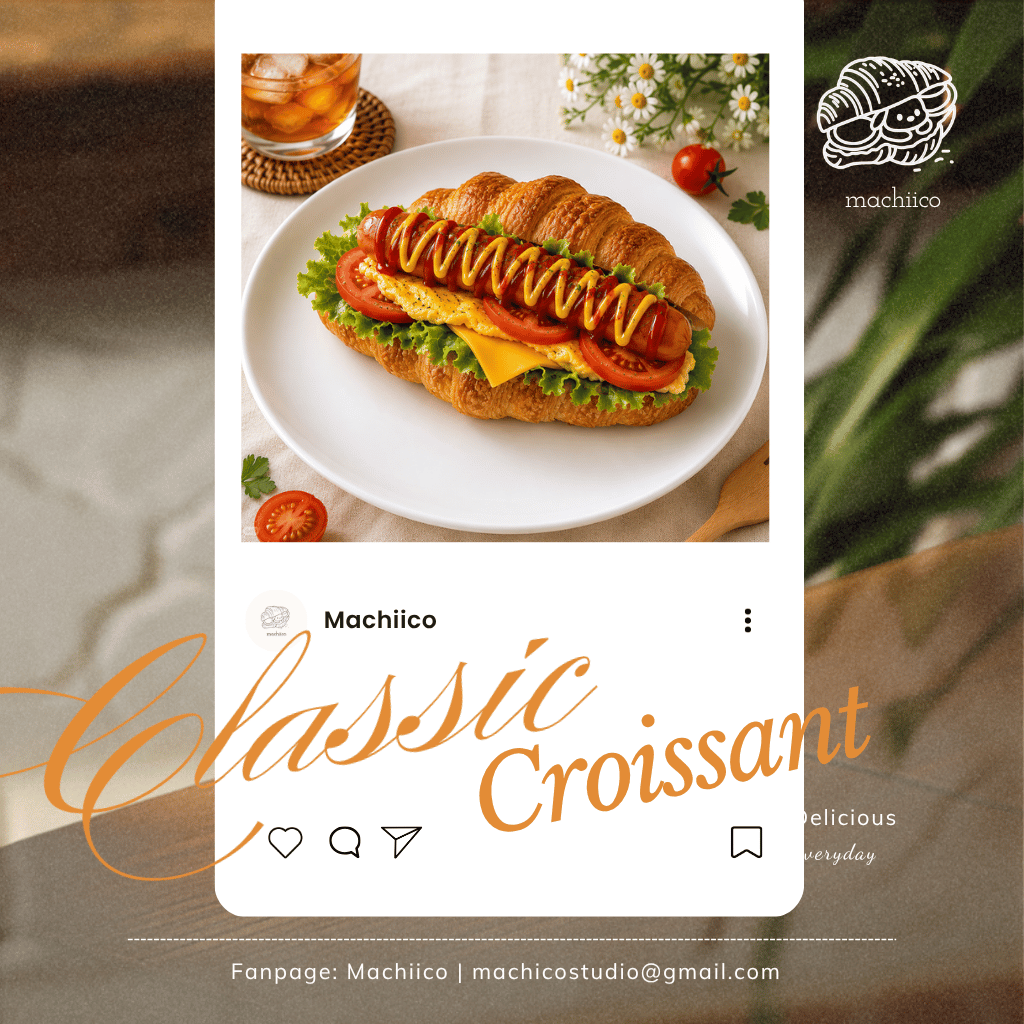
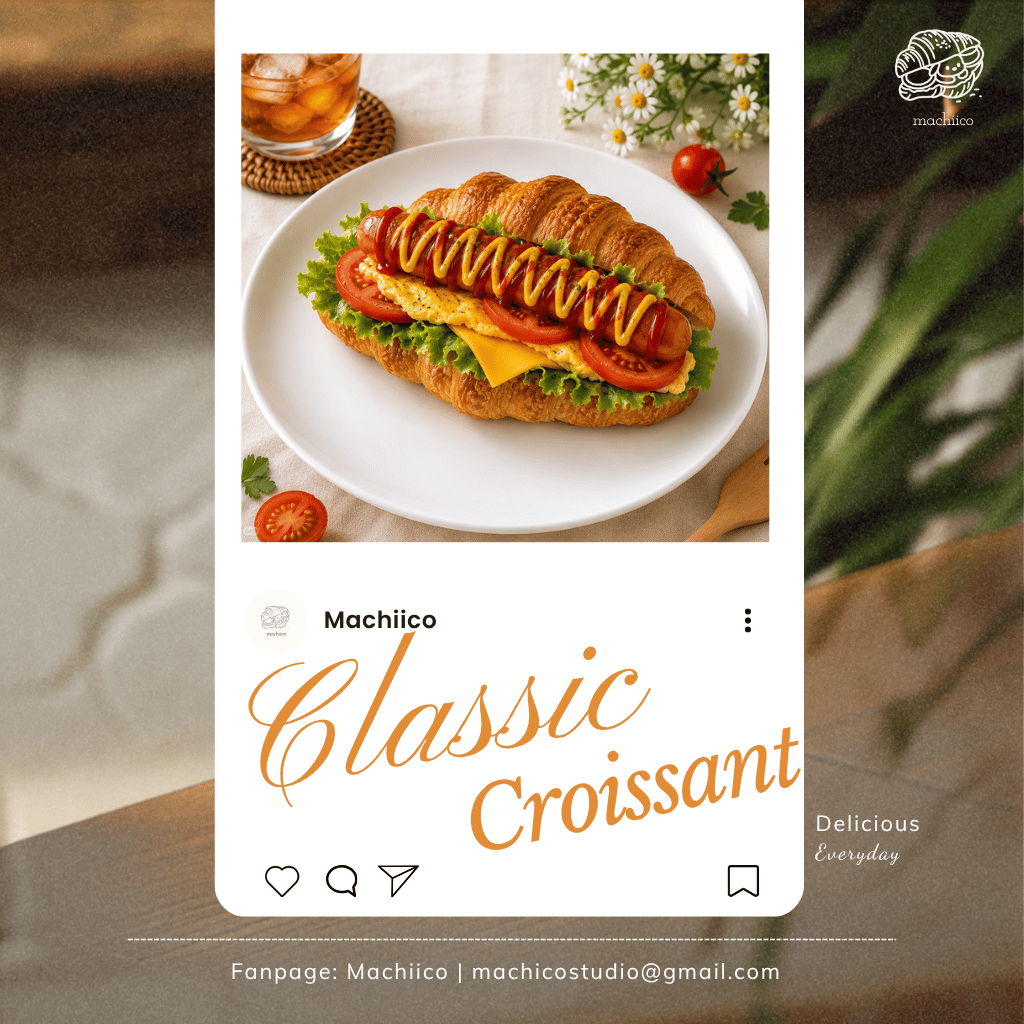
Add new Canva images for Classic and salmon

diff --git a/src/App.jsx b/src/App.jsx
@@ -41,7 +41,7 @@ const products = [
   { id: 'hawai', name: 'Hawai', price: 50000, category: 'combo', tone: 'yellow', image: '/assets/products/hawai.png', description: 'Tôm, xúc xích, trứng bông, ô liu, thơm và salad.' },
   { id: 'seafood', name: 'Seafood', price: 60000, category: 'combo', badge: 'Mới', tone: 'blue', image: '/assets/products/seafood.png', description: 'Tôm, trứng bông, phô mai, salad và cà chua.' },
   { id: 'shrimp', name: 'Tôm', price: 20000, category: 'savory', tone: 'orange', description: 'Tôm tươi áp chảo, thêm vào món theo sở thích.' },
-  { id: 'salmon', name: 'Cá hồi', price: 65000, category: 'savory', tone: 'rose', description: 'Cá hồi mềm ẩm, giàu đạm cho một bữa no lâu.' },
+  { id: 'salmon', name: 'Cá hồi', price: 65000, category: 'savory', tone: 'rose', image: '/assets/products/salmon.png', description: 'Cá hồi mềm ẩm, giàu đạm cho một bữa no lâu.' },
   { id: 'honey-chicken', name: 'Gà sốt mật ong', price: 25000, category: 'savory', badge: 'Dễ ăn', tone: 'yellow', description: 'Gà mềm phủ sốt mật ong ngọt dịu.' },
   { id: 'pepper-chicken', name: 'Gà sốt tiêu đen', price: 25000, category: 'savory', tone: 'brown', description: 'Gà sốt tiêu đen thơm ấm, vị đậm vừa.' },
   { id: 'bacon-extra', name: 'Thịt bacon', price: 30000, category: 'savory', tone: 'rose', description: 'Bacon xông khói áp chảo giòn cạnh.' },